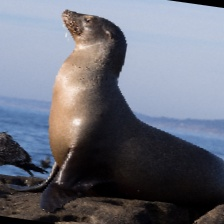
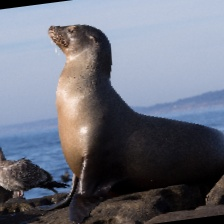
update params

diff --git a/src/test_affine.py b/src/test_affine.py
@@ -21,7 +21,7 @@ def apply_affine_transform(img, params):
 
 img = cv2.resize(cv2.imread('images/lionsea.jpg'), (224, 224))
 cv2.imwrite("original.jpg", img)  
-params = [1.1091362 ,  1.34097287,  0.09971993, -0.18609963, -0.07036193]
+params =  [1.25564167,  1.05940296, -0.10631726,  0.05034346, -0.17023813]
 transformed_img = apply_affine_transform(img, params)
 
 cv2.imwrite("output.jpg", transformed_img)  
